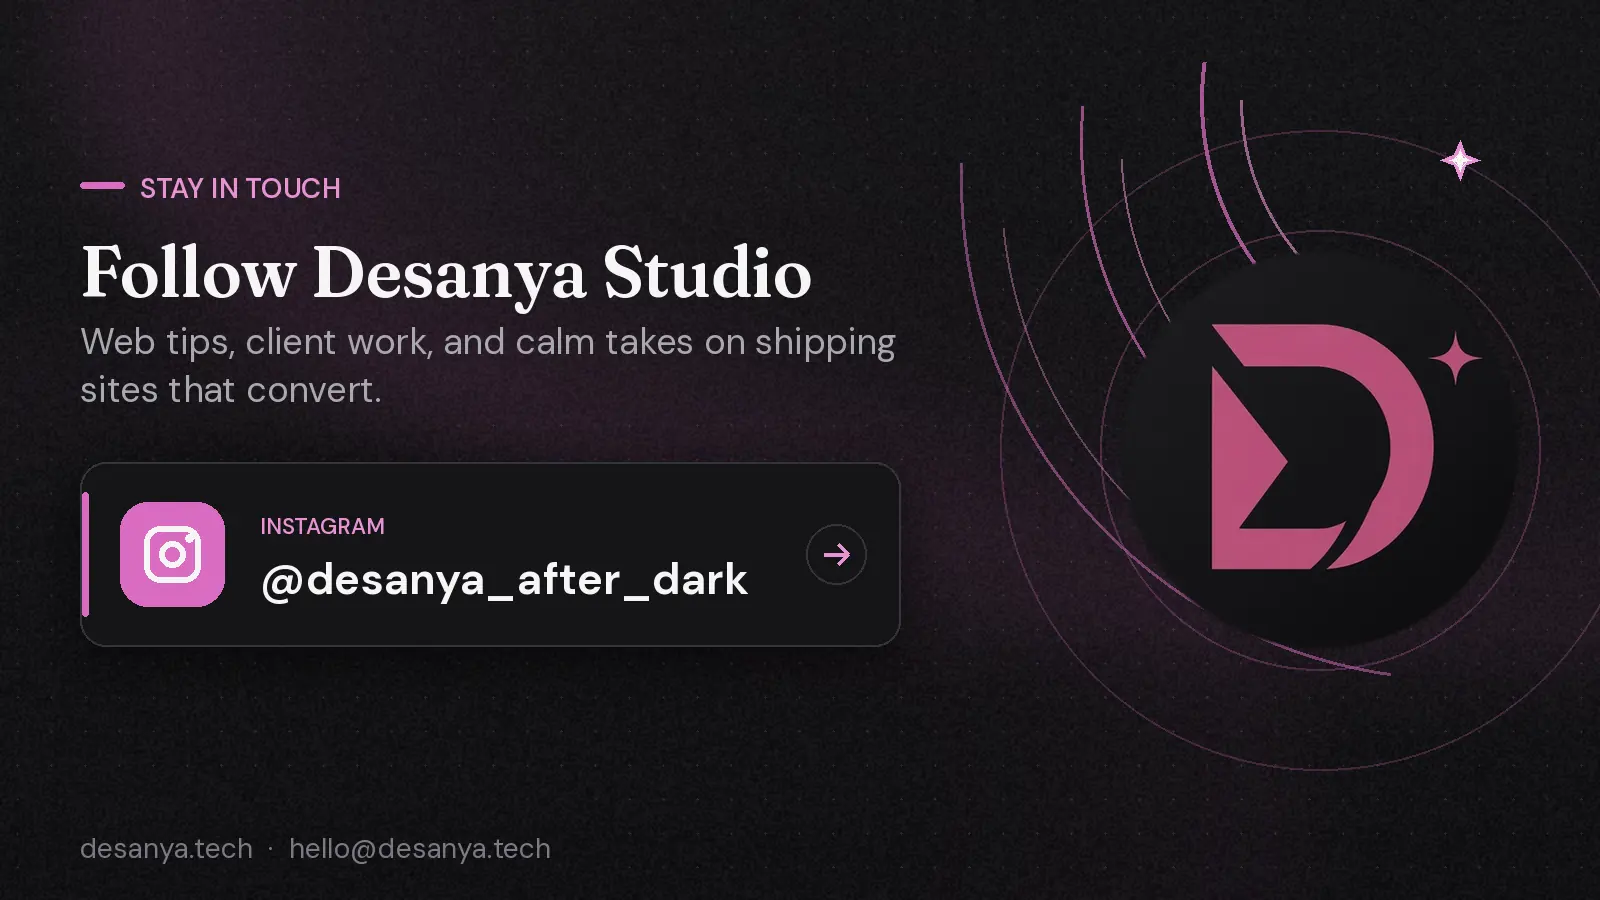
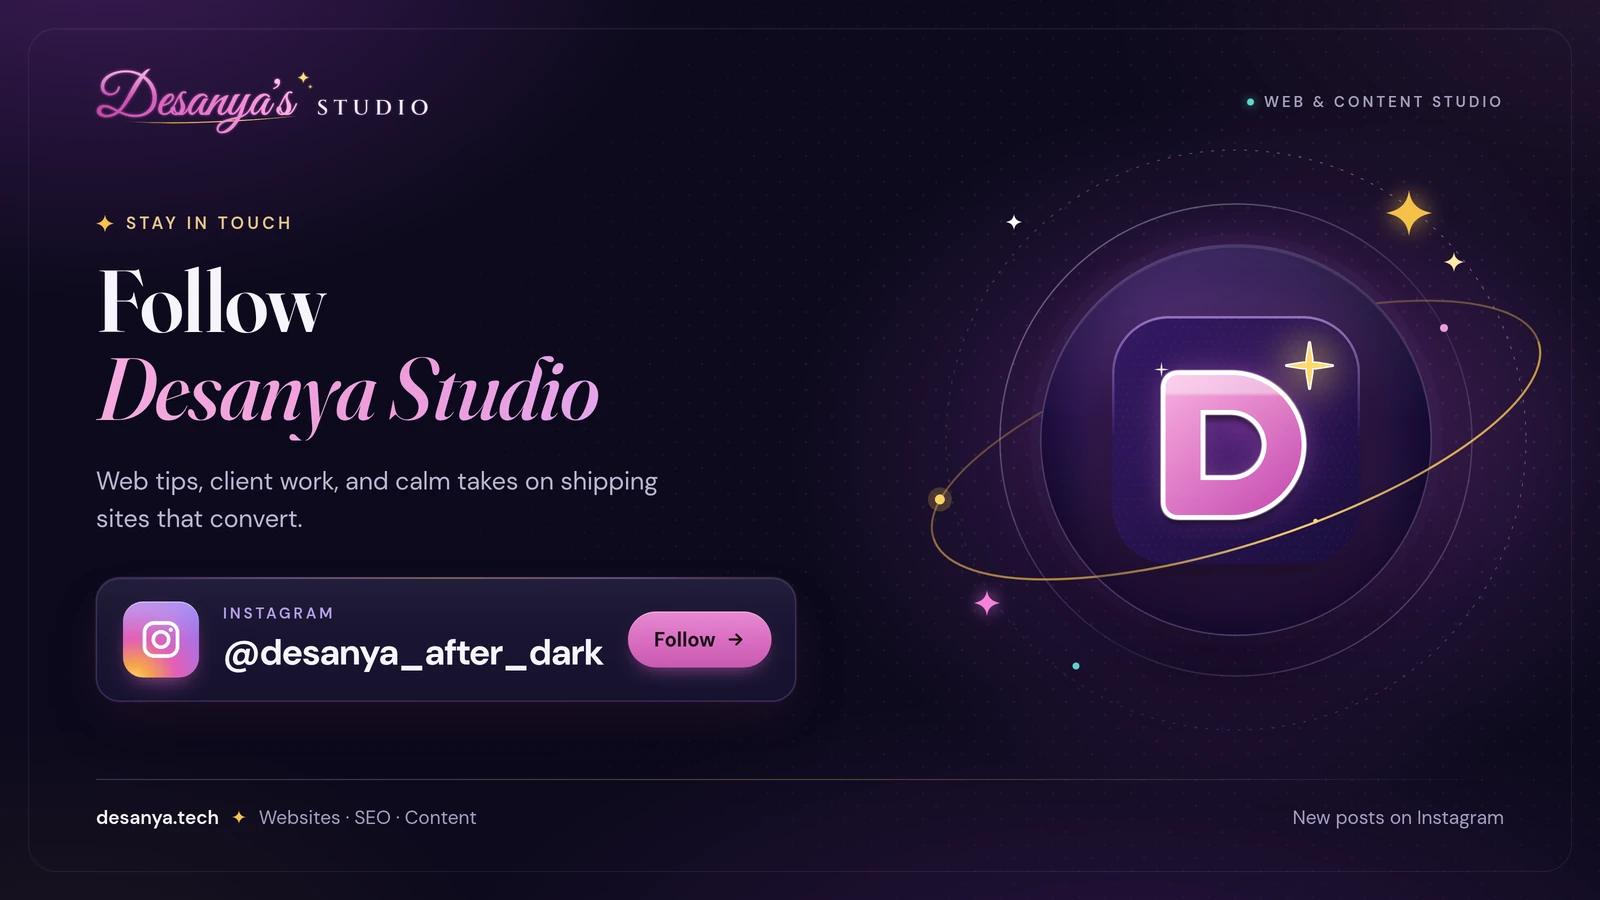
Replace the Follow Desanya Studio Instagram graphic.
The new 1600×900 image matches the navy and plum theme and does not print an email address. Home and Contact already use a picture element, so the WebP is updated in place, with a cache-bust so browsers drop the old file.

diff --git a/index.html b/index.html
@@ -335,8 +335,8 @@
         </div>
         <a class="follow-figure" href="https://www.instagram.com/desanya_after_dark/" target="_blank" rel="noopener noreferrer">
           <picture>
-            <source srcset="assets/follow-desanya-studio.webp" type="image/webp">
-            <img src="assets/follow-desanya-studio.jpg" alt="Follow Desanya Studio on Instagram, @desanya_after_dark" width="1600" height="900" loading="lazy">
+            <source srcset="assets/follow-desanya-studio.webp?v=2" type="image/webp">
+            <img src="assets/follow-desanya-studio.jpg?v=2" alt="Follow Desanya Studio on Instagram, @desanya_after_dark" width="1600" height="900" loading="lazy">
           </picture>
         </a>
       </div>

diff --git a/contact.html b/contact.html
@@ -318,8 +318,8 @@
 
           <a class="contact-follow" href="https://www.instagram.com/desanya_after_dark/" target="_blank" rel="noopener noreferrer">
             <picture>
-              <source srcset="assets/follow-desanya-studio.webp" type="image/webp">
-              <img src="assets/follow-desanya-studio.jpg" alt="Follow Desanya Studio on Instagram, @desanya_after_dark" width="1600" height="900" loading="lazy">
+              <source srcset="assets/follow-desanya-studio.webp?v=2" type="image/webp">
+              <img src="assets/follow-desanya-studio.jpg?v=2" alt="Follow Desanya Studio on Instagram, @desanya_after_dark" width="1600" height="900" loading="lazy">
             </picture>
           </a>
 
